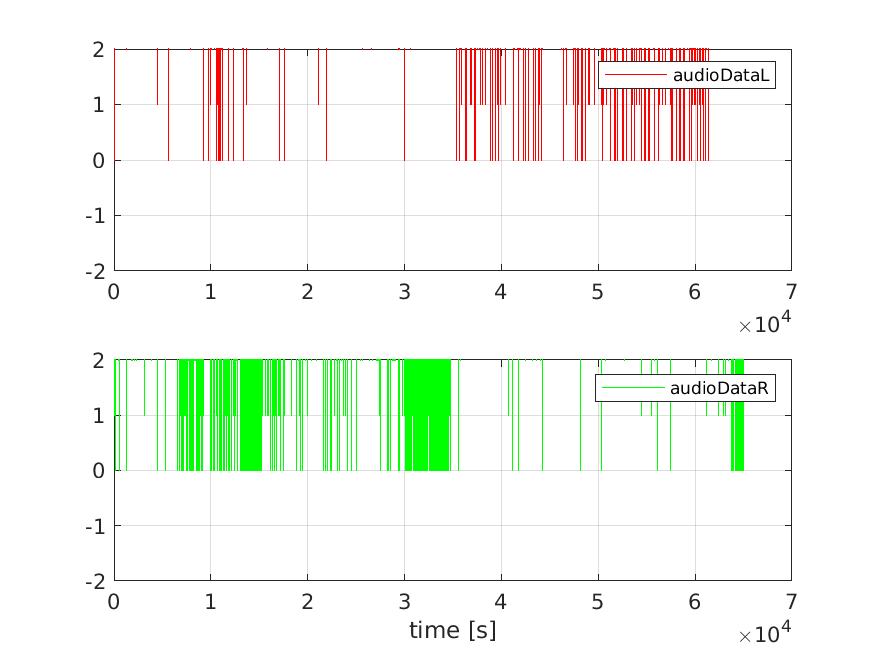
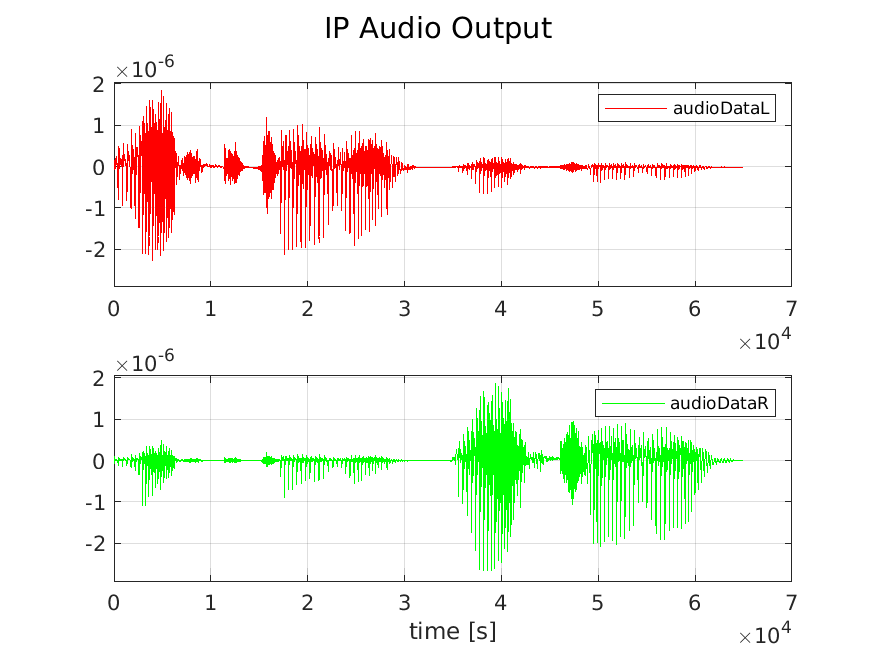
plot values in matlab

diff --git a/hardware/common/analysis/analyze_ip_output_data.m b/hardware/common/analysis/analyze_ip_output_data.m
@@ -2,7 +2,8 @@
 % File        : analyze_ip_output_data.m
 % Author      : Michael Wurm <wurm.michael95@gmail.com>
 % Description : Loads data file that was recorded from the
-%               FPGA IP output by the firmware and analyzes it.
+%               FPGA IP output by the firmware.
+%               Compares this data with the simulation by the Matlab model.
 %-------------------------------------------------------------------------
 
 %% Prepare environment
@@ -11,36 +12,55 @@ close all;
 clc;
 
 %=========================================================================
-%% Read file
+%% Read data
+%=========================================================================
+
+% --- IP output data ---
 
 % Read binary file
 fid = fopen('./data_rec_from_ip/HLS.TXT','rb');
 if fid == -1
     assert(false, sprintf("Could not find file '%s'!", filename));
 end
-y = fread(fid,'uint32=>uint32');
+y = fread(fid,'int32=>int32');
+fclose(fid);
 
 % Split 32 bit into 2x16 bit (left and right channel)
-y_uint16 = typecast(y,'uint16');
-audioDataLeft  = y_uint16(1:2:end);
-audioDataRight = y_uint16(2:2:end);
+y_int16  = typecast(y,'int16');
 
-%=========================================================================
-%% Plots
+% Convert to double and scale with 16 bit
+y_double = double(y_int16)/2^16;
+audioDataLeft_IP  = y_double(1:2:end)/2^16;
+audioDataRight_IP = y_double(2:2:end)/2^16;
 
-fig_title = 'Time domain signal';
+% --- Matlab simulation data ---
+
+fid = fopen('./data_rec_from_ip/HLS.TXT','rb');
+if fid == -1
+    assert(false, sprintf("Could not find file '%s'!", filename));
+end
+y = fread(fid,'int32=>int32');
+fclose(fid);
+
+
+%% =========================================================================
+% Plots
+%% =========================================================================
+
+fig_title = 'IP Audio Output';
 fig_audio_time = figure('Name',fig_title);
-title(fig_title);
+sgtitle(fig_title);
 
-ymax = 2;
+ymax = max([audioDataLeft_IP;audioDataRight_IP])*1.1;
+ymin = min([audioDataLeft_IP;audioDataRight_IP])*1.1;
 ax1 = subplot(2,1,1);
-plot(audioDataLeft,  'r', 'DisplayName', 'audioDataL');
+plot(audioDataLeft_IP,  'r', 'DisplayName', 'audioDataL');
 grid on; legend();
-ylim([-ymax,ymax]);
+ylim([ymin,ymax]);
 ax2 = subplot(2,1,2);
-plot(audioDataRight, 'g', 'DisplayName', 'audioDataR');
+plot(audioDataRight_IP, 'g', 'DisplayName', 'audioDataR');
 grid on; legend();
-ylim([-ymax,ymax]);
+ylim([ymin,ymax]);
 
 xlabel('time [s]');
 grid on; legend();

diff --git a/hardware/vivado/sdk/fm_radio_app/src/utils/FileReader/FileReader.cpp b/hardware/vivado/sdk/fm_radio_app/src/utils/FileReader/FileReader.cpp
@@ -167,7 +167,7 @@ bool FileReader::FileWrite(std::vector<uint32_t> data) {
       FileClose();
       return false;
     }
-    LOG_INFO("%5d", count);
+    LOG_INFO("%5d: %ld", count, elem);
     count++;
   }
   return true;

diff --git a/sim/matlab/helpers/loadIQFile.m b/sim/matlab/helpers/loadIQFile.m
@@ -24,3 +24,5 @@ y = y-127.5;
 
 % Convert interleaved I/Q values to complex values
 y = y(1:2:end) + 1j*y(2:2:end);
+
+fclose(fid);
